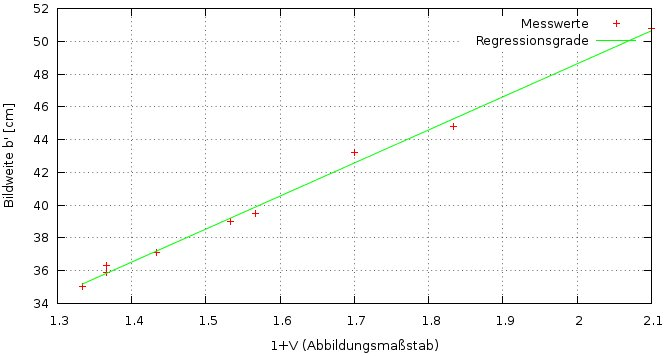
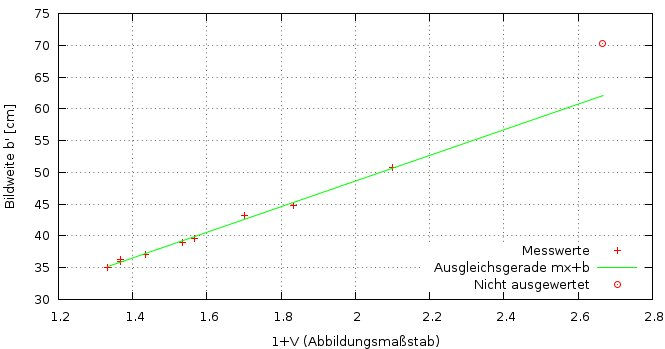
modified:   12.408 Geometrische Optik/daten/ploot 	modified:   12.408 Geometrische Optik/pics/abbe1.jpg 	modified:   12.408 Geometrische Optik/pics/abbe2.jpg 	modified:   12.408 Geometrische Optik/protokoll.tex

diff --git a/12.408 Geometrische Optik/protokoll.tex b/12.408 Geometrische Optik/protokoll.tex
@@ -117,7 +117,8 @@ werden kann. Bei sphärischen Aberrationen kommt es dazu, dass der Brennpunkt ac
 als jener der achsennahen. Somit laufen sie nicht alle im selben Punkt zusammen. 
 
 Chromatische Aberration ist ebenfalls ein Nichtzusammentreffen verschiedener Strahlen. Hierbei werden die verschiedenen Wellenlängen
-$\lambda$ verschieden stark am Linsenmaterial gebrochen, was auf einen wellenlängeabhängigen Brechungsindex zurückzuführen ist. Diese
+$\lambda$ verschieden stark am Linsenmaterial gebrochen, 
+was auf einen wellenlängeabhängigen Brechungsindex \linebreak zurückzuführen ist. Diese
 Erscheinung wird Dispersion genannt.
 
 \section{Durchführung}
@@ -214,7 +215,7 @@ G [cm] & g [cm] & b [cm] & B [cm] & $V_1$ & $V_2$ & f [mm]\\
 
 Anschließende Ausgleichs- und Fehlerrechnung Tabelle \ref{tab100} ergeben schließlich als Brennweite der Linse:
 \begin{align*}
-(98,7	\pm 0,6) \text{mm}
+f = (98,7	\pm 0,6) \text{mm}
 \end{align*} 
 
 Die beiden Abbildungsverhältnisse $V_1$ und $V_2$ haben im Mittel eine Abweichung von 3,8\% zueinander.
@@ -242,37 +243,35 @@ g [cm] & b [cm] & f [mm] \\
 
 Für die unbekannte Linse ergibt sich nach Auswertung der Tabelle \ref{tabunbekannt} Messwerte eine Brennweite von
 \begin{align*}
-(80,9 \pm 0,61) \text{ mm}
+f = (80,9 \pm 0,61) \text{ mm}
 \end{align*}
 
 \subsection{Brechnungsindex nach Bessel und chromatische Abberation}
-Nach Bessel lässt sich die Brennweite einer Linse ebenfalls nach Gleichung \eqref{Bessel} berechnen. Untersucht wird zudem, in wie weit Licht verschiedener Wellenlängen unterschiedlich stark gebrochen wird.\\
 In Tabelle \ref{tabbessel} stehen die gemessenen Werte für den Abstand e zwischen Gegenstand und Schirm, für den Abstand d zwischen den beiden Linsenpositionen unter denen eine scharfe Abbildung entsteht, sowie die jeweiligen errechneten Brennweiten bei der Bestrahlung mit blauem (Tabelle \ref{tabblau}) bzw. rotem (Tabelle \ref{tabrot}) Licht:
 
 \begin{table}[htbp]
 \begin{center}
-\begin{tabular}{|c|c|c|}
-e [cm] & d [cm] & f [mm] \\
-\hline
-40,0 & 6,5 & 97,36 \\ \hline
-45,0 & 16,1 & 98,10 \\ \hline
-50,0 & 23,1 & 98,32 \\ \hline
-55,0 & 29,6 & 97,67 \\ \hline
-60,0 & 35,4 & 97,79 \\ \hline
-65,0 & 41,2 & 97,21 \\ \hline
-70,0 & 46,6 & 97,44 \\ \hline
-75,0 & 51,8 & 98,06 \\ \hline
-80,0 & 57,4 & 97,04 \\ \hline
-85,0 & 62,6 & 97,24 \\ \hline
+\begin{tabular}{|c|c|c !{\vrule width 1.5pt}c|c !{\vrule width 1.5pt}c|}
+\multicolumn{1}{l|}{Linsenposition 1 [cm]} & \multicolumn{1}{l|}{Linsenposition 2 [cm]} & \multicolumn{1}{|l|}{Schirmposition [cm]} & \multicolumn{1}{l|}{e [cm]} & \multicolumn{1}{l|}{d [cm]} & \multicolumn{1}{l|}{f [mm]} \\ \hline
+47.0 & 53.5 & 70.0 & 40.0 & 6.5 & 97.36 \\ \hline
+44.6 & 60.6 & 75.0 & 45.0 & 16.1 & 98.10 \\ \hline
+43.7 & 66.7 & 80.0 & 50.0 & 23.1 & 98.32 \\ \hline
+43.1 & 72.7 & 85.0 & 55.0 & 29.6 & 97.67 \\ \hline
+42.7 & 78.0 & 90.0 & 60.0 & 35.4 & 97.79 \\ \hline
+42.3 & 83.5 & 95.0 & 65.0 & 41.2 & 97.21 \\ \hline
+42.0 & 88.6 & 100.0 & 70.0 & 46.6 & 97.44 \\ \hline
+41.9 & 93.6 & 105.0 & 75.0 & 51.8 & 98.06 \\ \hline
+41.7 & 99.0 & 110.0 & 80.0 & 57.4 & 97.04 \\ \hline
+41.4 & 104.0 & 115.0 & 85.0 & 62.6 & 97.24 \\ \hline
 \end{tabular}
 \end{center}
-\caption{Messwerte aufgenommen nach der Methode von Bessel}
+\caption{Messwerte aufgenommen nach der Methode von Bessel der Gegenstand \mbox{befindet} sich durchgängig an der Position 30 cm}
 \label{tabbessel}
 \end{table}
 
 Die Werte für die Brennweite f errechnen sich nach Bessel mittels Gleichung \eqref{Bessel}. Als gemittelter Wert erhält man dann für die Brennweite der Linse:
 \begin{align*}
- f= (97,6 \pm 0,4)\text{ mm}
+ f = (97,6 \pm 0,4)\text{ mm}
 \end{align*}
 
 \begin{table}[H]
@@ -293,7 +292,7 @@ e [cm] & d [cm] & f [mm]\\
 
 Für blaues Licht zeigt die Linse ein Brechungsverhalten wie bei einer Linse mit einer Brennweite von:
 \begin{align*}
-(97,6	\pm 0,3) \text{ mm}
+f = (97,6	\pm 0,3) \text{ mm}
 \end{align*}
 
 \begin{table}[H]
@@ -315,7 +314,7 @@ e [cm] & d [cm] & f [mm]\\
 Für rotes Licht zeigt die Linse ein Brechungsverhalten wie bei einer Linse mit einer Brennweite von:
 
 \begin{align*}
-(98,2	\pm 0,3) \text{ mm}
+f = (98,2	\pm 0,3) \text{ mm}
 \end{align*}
 
 
@@ -345,12 +344,14 @@ G [cm] & g' [cm] & b' [cm] & B [cm]\\
 \end{table}
 
 \begin{figure}[H]
-\includegraphics[width=0.8\textwidth]{pics/abbe1.jpg}
+\includegraphics[width=0.9\textwidth]{pics/abbe1.jpg}
 \caption{b' gegen 1+V aufgetragen - errechnete Regressionsgrade}
 \end{figure}
 
+\hspace{2cm}
+
 \begin{figure}[H]
-\includegraphics[width=0.78\textwidth]{pics/abbe2.jpg}
+\includegraphics[width=0.9\textwidth]{pics/abbe2.jpg}
 \caption{g' gegen $\frac{1}{1+V}$ aufgetragen - errechnete Regressionsgrade}
 \end{figure}
 
